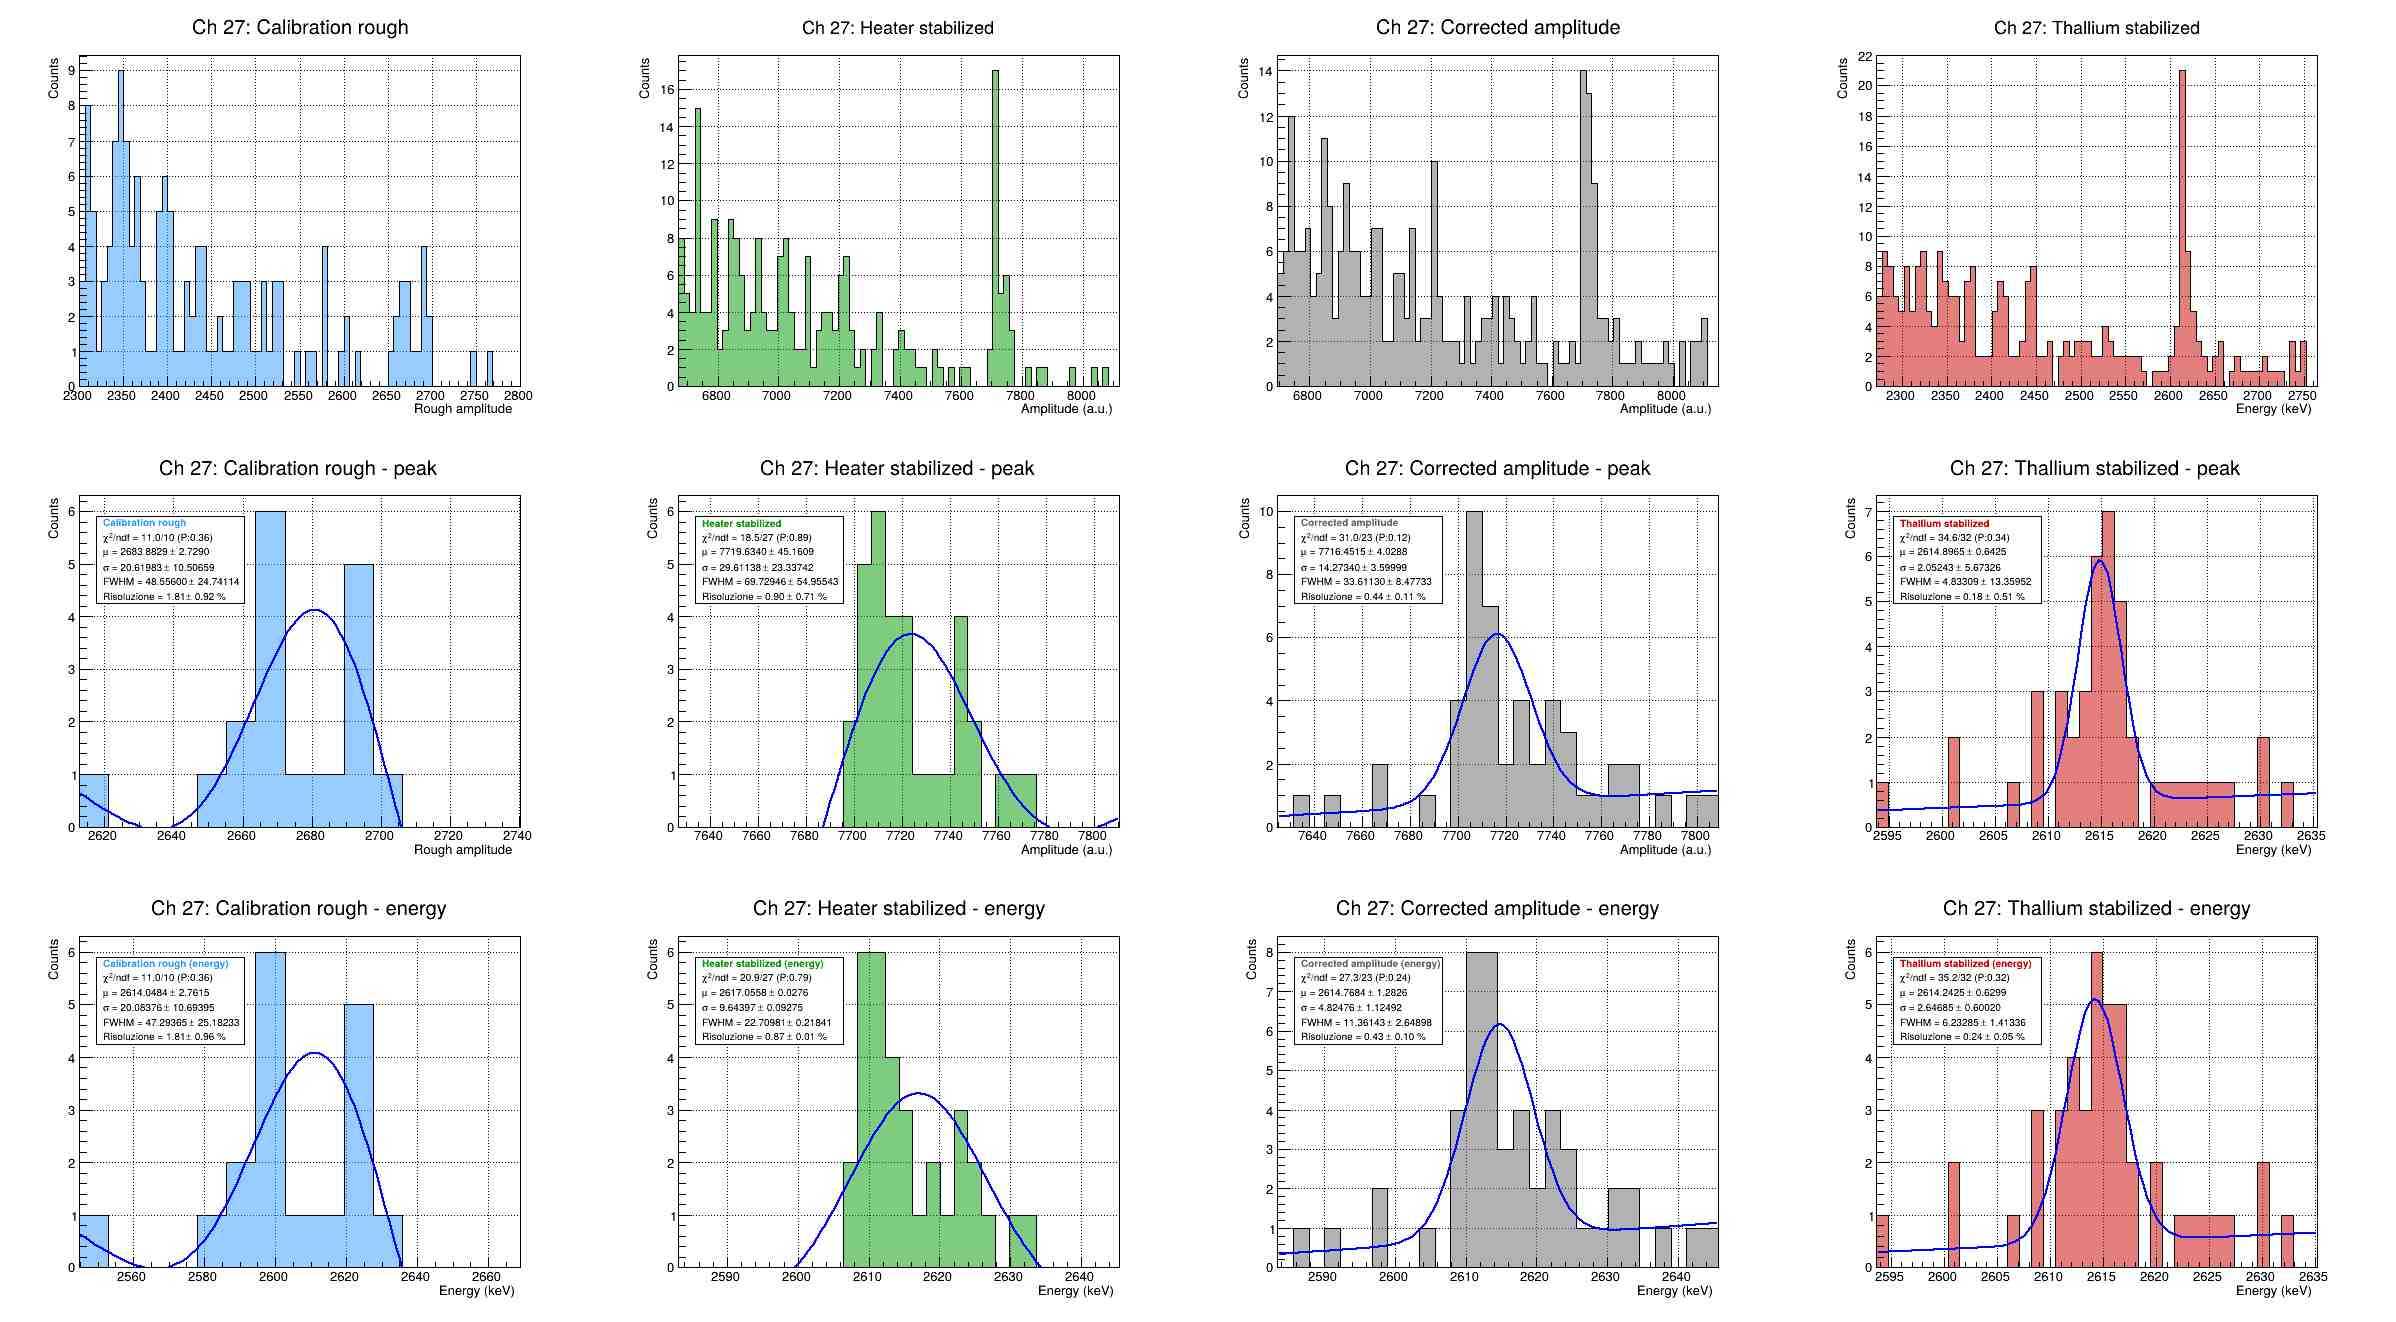
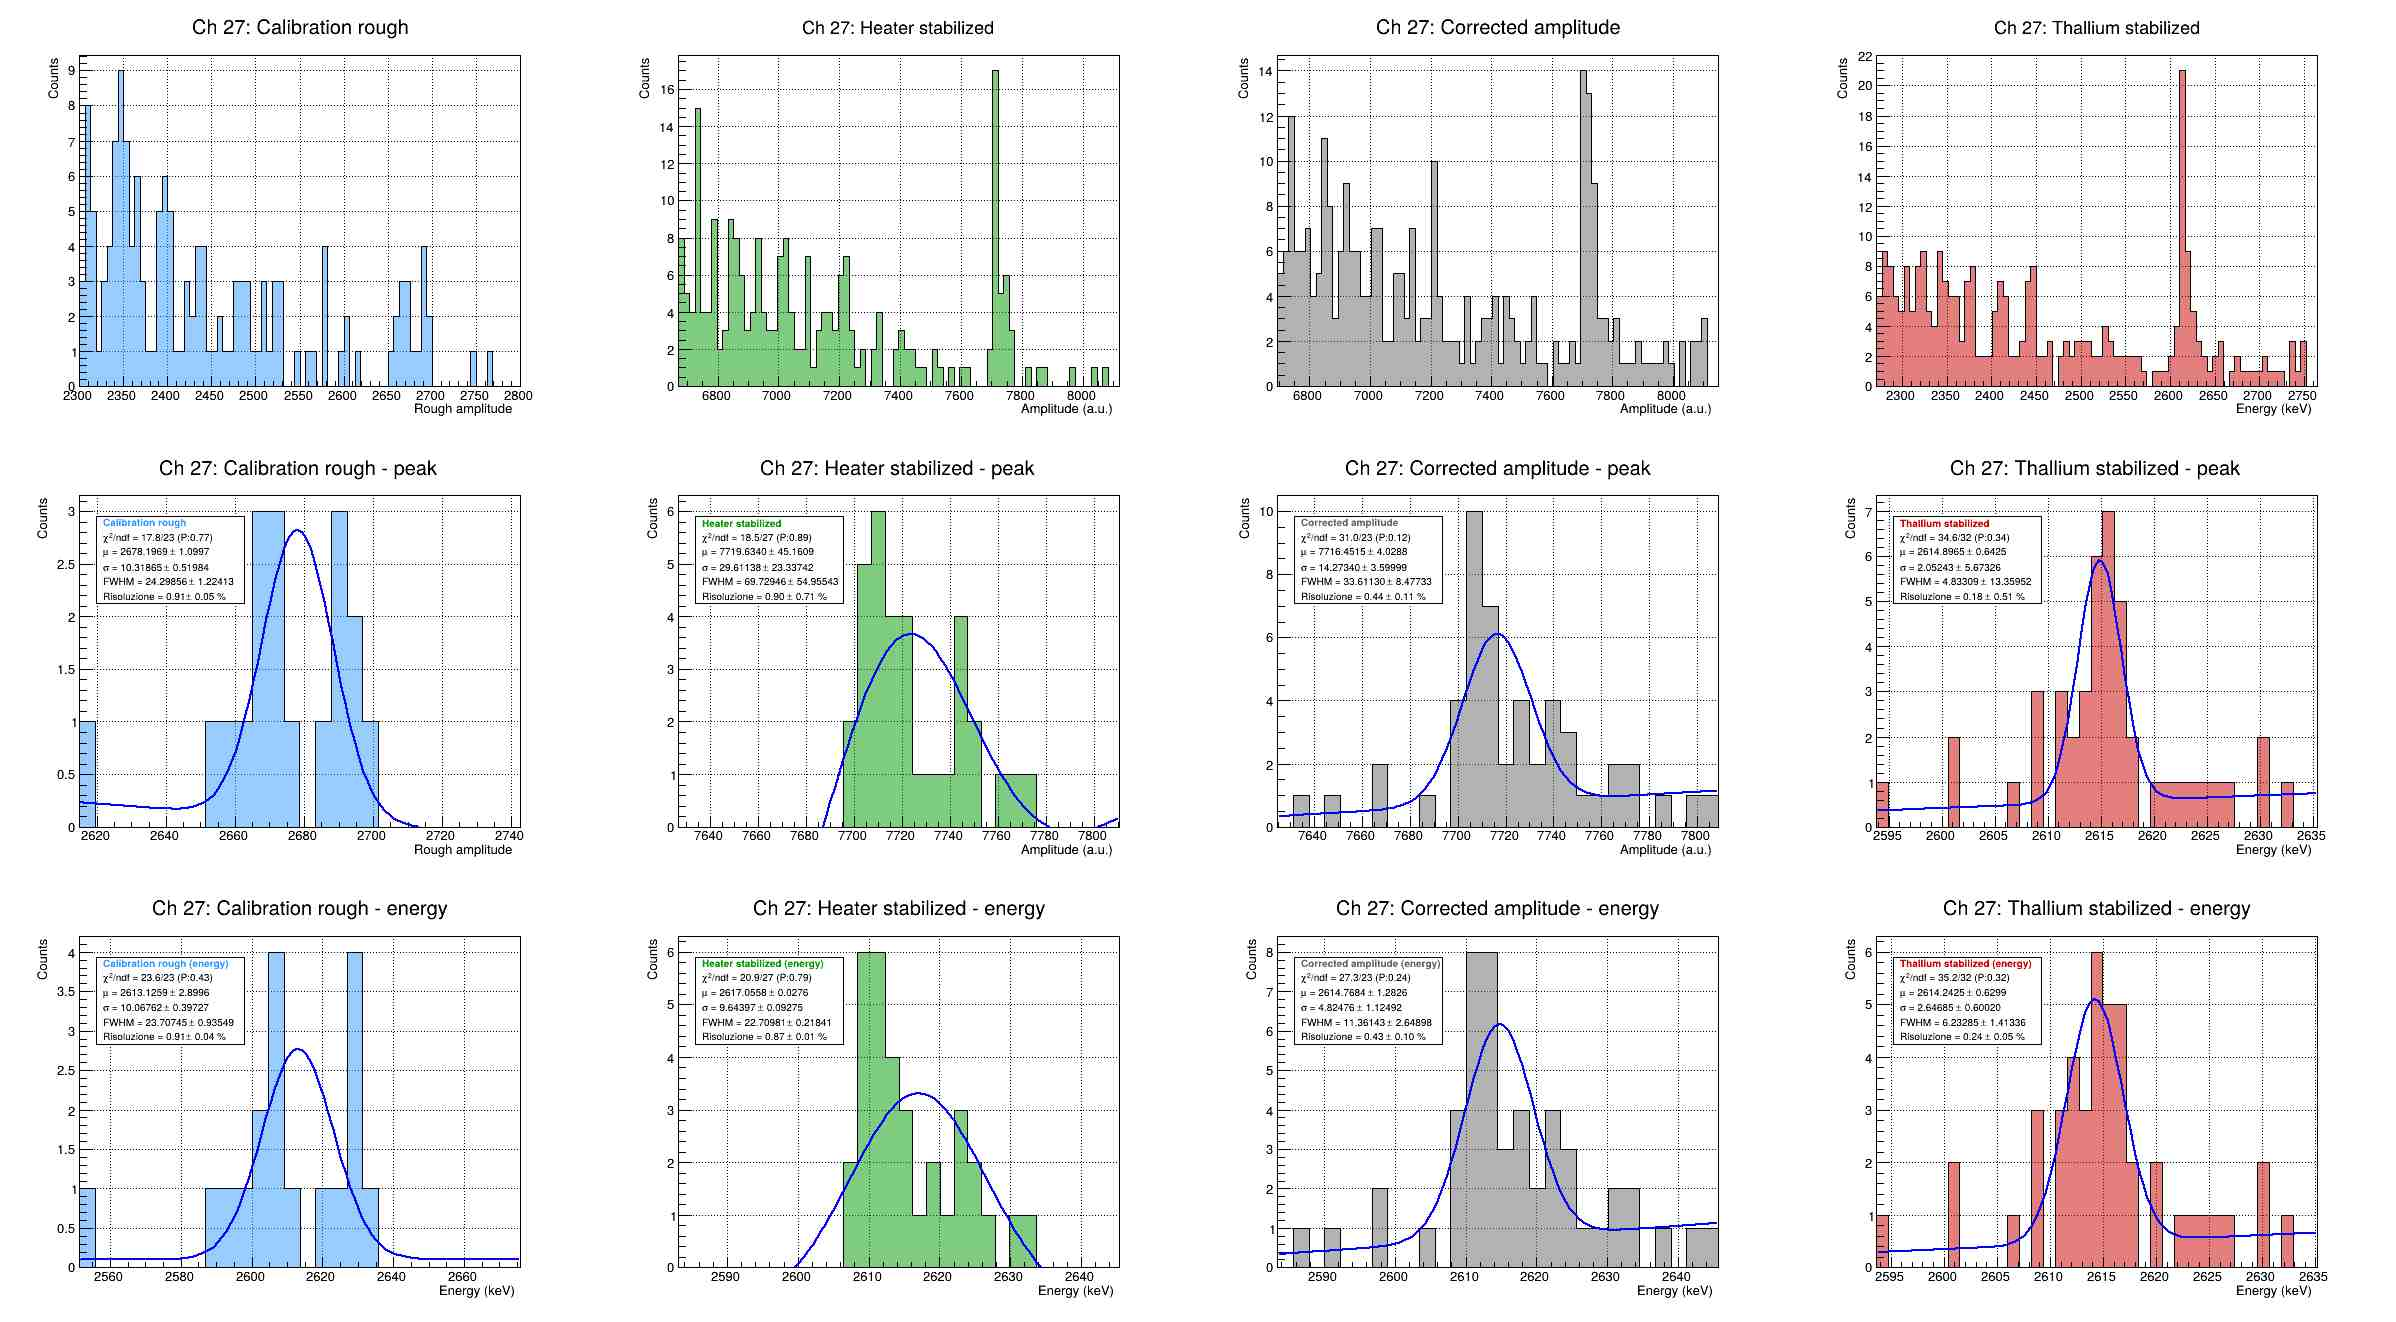
miglioramenti

diff --git a/batchOctopus/PlotThalliumResolutions.py b/batchOctopus/PlotThalliumResolutions.py
@@ -18,9 +18,12 @@
    2. SIGNIFICANCE -- how significant the resolution change produced by the
       thallium stabilization is, channel by channel:
 
-          z = (R_heater2 - R_Tl) / sqrt(sigma_heater2^2 + sigma_Tl^2)
+          z = (R_before - R_after) / sqrt(sigma_before^2 + sigma_after^2)
 
-      positive when the resolution IMPROVES. The normalised difference of two
+      positive when the resolution IMPROVES. "before" is the last step the
+      channel has before the thallium stabilization: normally the second heater
+      stabilization, but the optimum-filter channels have no heater chain and
+      are compared against their own amplitude (drawn as hollow markers). The normalised difference of two
       fitted quantities follows a Student t, not a Gaussian, so the "not
       significant" band is drawn at the two-sided 95 % t quantile computed
       channel by channel with the effective number of degrees of freedom
@@ -90,8 +93,14 @@ STEPS = [
 STEP_LABEL = {k: lab for k, lab, _, _ in STEPS}
 
 # The two steps compared in the significance figure: before and after the
-# thallium stabilization.
-Z_BEFORE, Z_AFTER = "corrected", "stabilized"
+# thallium stabilization. The "before" is the LAST step preceding it that the
+# channel actually has -- a channel with no heater stabilization has no
+# 'corrected' column at all (its amplitude is the optimum-filter one, which the
+# rough panel already carries), and there the step before the thallium
+# stabilization is 'rough'. Those points are drawn hollow: the comparison is
+# still before/after, but not against the same step as the other channels.
+Z_BEFORE_KEYS = ("corrected", "rough")
+Z_BEFORE, Z_AFTER = Z_BEFORE_KEYS[0], "stabilized"
 
 
 # ===========================================================================
@@ -365,18 +374,19 @@ def make_significance_figure(data, channels, args, results):
     """
     fig, ax = new_axes(len(channels), height=5.2)
 
-    good = [(i, z, nu, p) for i, (ch, z, nu, p) in enumerate(results)
+    good = [(i, z, nu, p, bk) for i, (ch, z, nu, p, bk) in enumerate(results)
             if math.isfinite(z)]
     if not good:
-        sys.exit(f"[!] No channel has both '{Z_BEFORE}' and '{Z_AFTER}' with a "
-                 f"usable error: nothing to compare.")
+        sys.exit(f"[!] No channel has both a step before the thallium "
+                 f"stabilization and '{Z_AFTER}' with a usable error: nothing "
+                 f"to compare.")
 
     col_up, col_dn = "#2E9E5B", "#C43D3D"      # improvement / worsening
 
     # Per-channel acceptance band: the t quantile depends on the d.o.f. of that
     # channel's two fits, so the band is a staircase, not a pair of lines.
-    t_crit = [student_interval(nu, args.cl) for _, _, nu, _ in good]
-    xs     = np.array([i for i, _, _, _ in good], float)
+    t_crit = [student_interval(nu, args.cl) for _, _, nu, _, _ in good]
+    xs     = np.array([i for i, _, _, _, _ in good], float)
     edges  = np.concatenate([xs - 0.5, [xs[-1] + 0.5]])
     band   = np.concatenate([t_crit, [t_crit[-1]]])
     ax.fill_between(edges, -band, band, step="post", color="#9AA0A6",
@@ -388,11 +398,18 @@ def make_significance_figure(data, channels, args, results):
 
     ax.axhline(0.0, color="#444444", lw=1.2, zorder=3)
 
-    zs = np.array([z for _, z, _, _ in good])
-    for i, z, nu, p in good:
+    zs       = np.array([z for _, z, _, _, _ in good])
+    fallback = sorted({bk for _, _, _, _, bk in good if bk != Z_BEFORE})
+    for i, z, nu, p, bk in good:
         colour = col_up if z >= 0 else col_dn
-        ax.plot([i], [z], "o", ms=8.5, mfc=colour, mec="white", mew=1.2,
-                zorder=6)
+        # Hollow when the "before" is not the usual step: the point is still a
+        # before/after of the thallium stabilization, but of a shorter chain.
+        if bk == Z_BEFORE:
+            ax.plot([i], [z], "o", ms=8.5, mfc=colour, mec="white", mew=1.2,
+                    zorder=6)
+        else:
+            ax.plot([i], [z], "o", ms=8.5, mfc="white", mec=colour, mew=2.0,
+                    zorder=6)
         # Stem down to zero: it turns a cloud of dots into a per-channel bar of
         # evidence, which is what a significance plot is read for.
         ax.plot([i, i], [0.0, z], "-", color=colour, lw=1.6, alpha=0.55,
@@ -414,7 +431,7 @@ def make_significance_figure(data, channels, args, results):
     ax.set_title("Statistical significance of the resolution change produced by "
                  "the thallium stabilization",
                  fontsize=13.5, fontweight="bold", pad=54)
-    nus = [nu for _, _, nu, _ in good if math.isfinite(nu)]
+    nus = [nu for _, _, nu, _, _ in good if math.isfinite(nu)]
     nu_note = f"$\\nu\\approx${np.median(nus):.0f}" if nus else "Gaussian limit"
     add_subtitle(ax,
                  f"{STEP_LABEL[Z_BEFORE]}  $\\rightarrow$  {STEP_LABEL[Z_AFTER]}"
@@ -432,8 +449,16 @@ def make_significance_figure(data, channels, args, results):
               label=f"not significant at {100*args.cl:.0f} % "
                     f"(Student $t$, {nu_note})"),
     ]
+    for bk in fallback:
+        handles.append(Line2D([], [], color="#555555", marker="o", ms=8,
+                              mfc="white", mec="#555555", mew=2.0, ls="none",
+                              label=f"compared against {STEP_LABEL[bk].lower()}"))
+
+    # An extra entry pushes the legend onto a second row: drop it further so it
+    # does not sit on the x-axis label.
     leg = ax.legend(handles=handles, loc="upper center",
-                    bbox_to_anchor=(0.5, -0.14), ncol=3, frameon=True,
+                    bbox_to_anchor=(0.5, -0.14 - 0.07 * (len(handles) > 3)),
+                    ncol=3, frameon=True,
                     fontsize=10, borderpad=0.7, columnspacing=1.8,
                     handletextpad=0.7)
     leg.get_frame().set_edgecolor("#CCCCCC")
@@ -444,9 +469,21 @@ def make_significance_figure(data, channels, args, results):
 
 
 def compute_significance(data, channels):
-    """[(channel, z, nu, p)] for every channel, in the order given."""
-    before, after = data.get(Z_BEFORE, {}), data.get(Z_AFTER, {})
-    return [(ch, *significance(before.get(ch), after.get(ch))) for ch in channels]
+    """
+    [(channel, z, nu, p, before_key)] for every channel, in the order given.
+    *before_key* is the step the comparison actually used (see Z_BEFORE_KEYS).
+    """
+    after = data.get(Z_AFTER, {})
+    out   = []
+    for ch in channels:
+        for key in Z_BEFORE_KEYS:
+            rec = data.get(key, {}).get(ch)
+            if rec is not None:
+                out.append((ch, *significance(rec, after.get(ch)), key))
+                break
+        else:
+            out.append((ch, float("nan"), float("nan"), float("nan"), None))
+    return out
 
 
 # ===========================================================================
@@ -473,19 +510,22 @@ def print_tables(data, channels, args, results):
                 cells.append(f"{rec['res']:7.3f} +/-   n/a")
         print(f"{ch:>5} | " + " | ".join(f"{c:^18}" for c in cells))
 
-    print(f"\nSignificance of {STEP_LABEL[Z_BEFORE]} -> {STEP_LABEL[Z_AFTER]}")
-    print(f"{'ch':>5} | {'z':>7} | {'nu_eff':>7} | {'p (2-sided)':>12} | verdict")
-    print("-" * 58)
-    for ch, z, nu, p in results:
+    print(f"\nSignificance of the thallium stabilization (-> {STEP_LABEL[Z_AFTER]})")
+    print(f"{'ch':>5} | {'before':^12} | {'z':>7} | {'nu_eff':>7} | "
+          f"{'p (2-sided)':>12} | verdict")
+    print("-" * 74)
+    for ch, z, nu, p, bk in results:
+        name = bk if bk else "-"
         if not math.isfinite(z):
-            print(f"{ch:>5} |     n/a |     n/a |          n/a | no usable error")
+            print(f"{ch:>5} | {name:^12} |     n/a |     n/a |          n/a | "
+                  f"no usable error")
             continue
         t_c = student_interval(nu, args.cl)
         if abs(z) < t_c:
             verdict = "not significant"
         else:
             verdict = "improvement" if z > 0 else "WORSENING"
-        print(f"{ch:>5} | {z:7.2f} | {nu:7.1f} | {p:12.2e} | {verdict}")
+        print(f"{ch:>5} | {name:^12} | {z:7.2f} | {nu:7.1f} | {p:12.2e} | {verdict}")
     print()
 
 

diff --git a/batchOctopus/ThalliumStabilization.py b/batchOctopus/ThalliumStabilization.py
@@ -198,6 +198,12 @@ AMP_TREE_DEFAULT        = "corrected_amplitude"
 AMP_TREE_FALLBACK       = "stabilization_all"
 AMP_TREE_OPTIMUM        = "optimumfilter_all"
 OPTIMUM_FILTER_CHANNELS = [25, 59]   # channels using AMP_TREE_OPTIMUM.heat_amplitude
+# Columns of the combined-thallium canvas kept on those channels: they have no
+# heater stabilization, and their main amplitude is the optimum-filter one, which
+# the rough-calibration panel already shows (one calibration apart). What is left
+# is the chain they actually follow: the amplitude, and the same amplitude after
+# the thallium stabilization.
+OPTIMUM_FILTER_CHAIN_KEYS = ("rough", "stabilized")
 
 
 # ===========================================================================
@@ -3129,10 +3135,11 @@ def run_stabilization(
                   else main_tree_name)
     # (key, label, values, x-axis title, colour). The key ties the variable to its
     # per-channel settings (ChainSettings), independently of the column position.
-    # On an OPTIMUM_FILTER_CHANNELS channel the main amplitude IS the optimum-filter
-    # one, so the heater-stabilized column is dropped: it is an earlier step of a
-    # chain that channel does not follow, and it would only add a panel that has
-    # nothing to do with the amplitude actually stabilized.
+    # On an OPTIMUM_FILTER_CHANNELS channel only the rough calibration and the
+    # thallium-stabilized amplitude are kept (OPTIMUM_FILTER_CHAIN_KEYS): the two
+    # heater columns are steps of a chain that channel does not follow, and the
+    # main-amplitude column would repeat the rough one -- it IS the optimum-filter
+    # amplitude, the same quantity the rough panel shows one calibration apart.
     chain_defs = [
         ("rough",      "Calibration rough",   cal_rough,   "Rough amplitude",  ROOT.kAzure + 1),
         ("heater",     "Heater stabilized",   amp_stab,    "Amplitude (a.u.)", ROOT.kGreen + 2),
@@ -3140,7 +3147,7 @@ def run_stabilization(
         ("stabilized", "Thallium stabilized", amp_tl_stab, "Energy (keV)",     ROOT.kRed + 1),
     ]
     if use_optimum_filter:
-        chain_defs = [c for c in chain_defs if c[0] != "heater"]
+        chain_defs = [c for c in chain_defs if c[0] in OPTIMUM_FILTER_CHAIN_KEYS]
 
     # Thallium peak position in ROUGH units, measured where the line dominates
     # (mask_conv = correlation cut + Tl window). Converted with each variable's

diff --git a/HANDOFF.md b/HANDOFF.md
@@ -54,7 +54,11 @@ catena di ricostruzione dell'ampiezza. Layout **3 righe × N colonne**:
 
 Colonne (chiavi `chain_defs`): `rough` (calibration_rough) · `heater` (stabilization_all) ·
 `corrected` (ampiezza principale) · `stabilized` (ampiezza stabilizzata sul Tl).
-Sui canali in `OPTIMUM_FILTER_CHANNELS` la colonna `heater` **non** viene disegnata.
+Sui canali in `OPTIMUM_FILTER_CHANNELS` restano **solo `rough` e `stabilized`**
+(`OPTIMUM_FILTER_CHAIN_KEYS`): non hanno stabilizzazione heater, e la colonna dell'ampiezza
+principale ripeterebbe la rough — è la stessa ampiezza dell'optimum filter, a una calibrazione di
+distanza. Quei canali non hanno quindi righe `heater`/`corrected` nel CSV dei risultati, e nel plot
+di significatività il "prima" diventa `rough` (punti a marker vuoto, vedi `Z_BEFORE_KEYS`).
 
 La canvas è prodotta **due volte**: `chXX_combined_thallium.jpg` (fondo `pol1`) e
 `chXX_combined_thallium_flatbkg.jpg` (fondo `pol0`).
